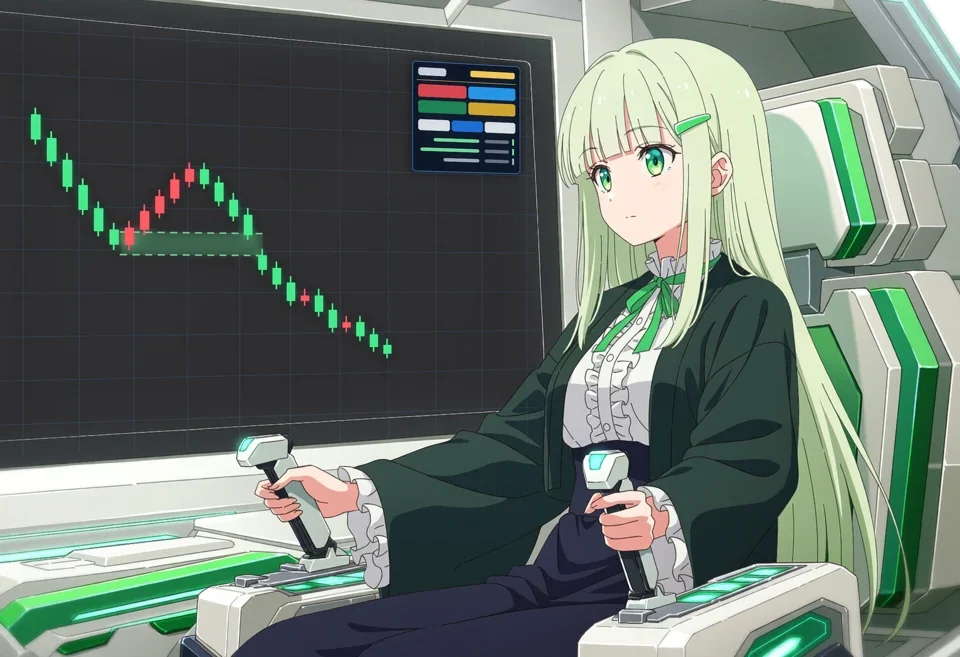
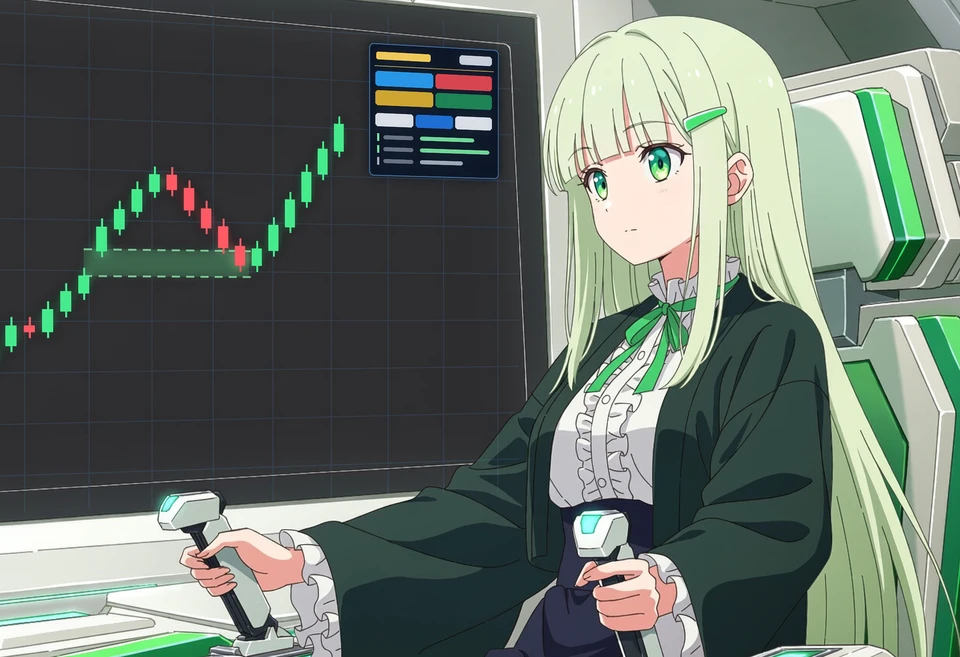
Story: new UME cockpit image (chart reads left to right, face size matched)

diff --git a/story.html b/story.html
@@ -179,7 +179,7 @@
   <div class="pilots">
     <figure class="pilot" style="--c:#d9b54a"><img src="img/chara/cockpit_tren.webp?v=20261125" alt="コックピットで操縦するトレン" loading="lazy"></figure>
     <figure class="pilot" style="--c:#4dc3ff"><img src="img/chara/cockpit_nami.webp?v=20261125" alt="コックピットで操縦するナミ" loading="lazy"></figure>
-    <figure class="pilot" style="--c:#4fc27f"><img src="img/chara/cockpit_ume.webp?v=20261125b" alt="コックピットで操縦するうめちゃん" loading="lazy"></figure>
+    <figure class="pilot" style="--c:#4fc27f"><img src="img/chara/cockpit_ume.webp?v=20261125d" alt="コックピットで操縦するうめちゃん" loading="lazy"></figure>
   </div>
   <div class="grades g3">
     <div class="grade"><b>試験中</b><span>練習生</span><p>シミュレーター（デモ口座）で、担当の機体を操縦する練習をしています。いまの生徒は、みんなここ。</p></div>
